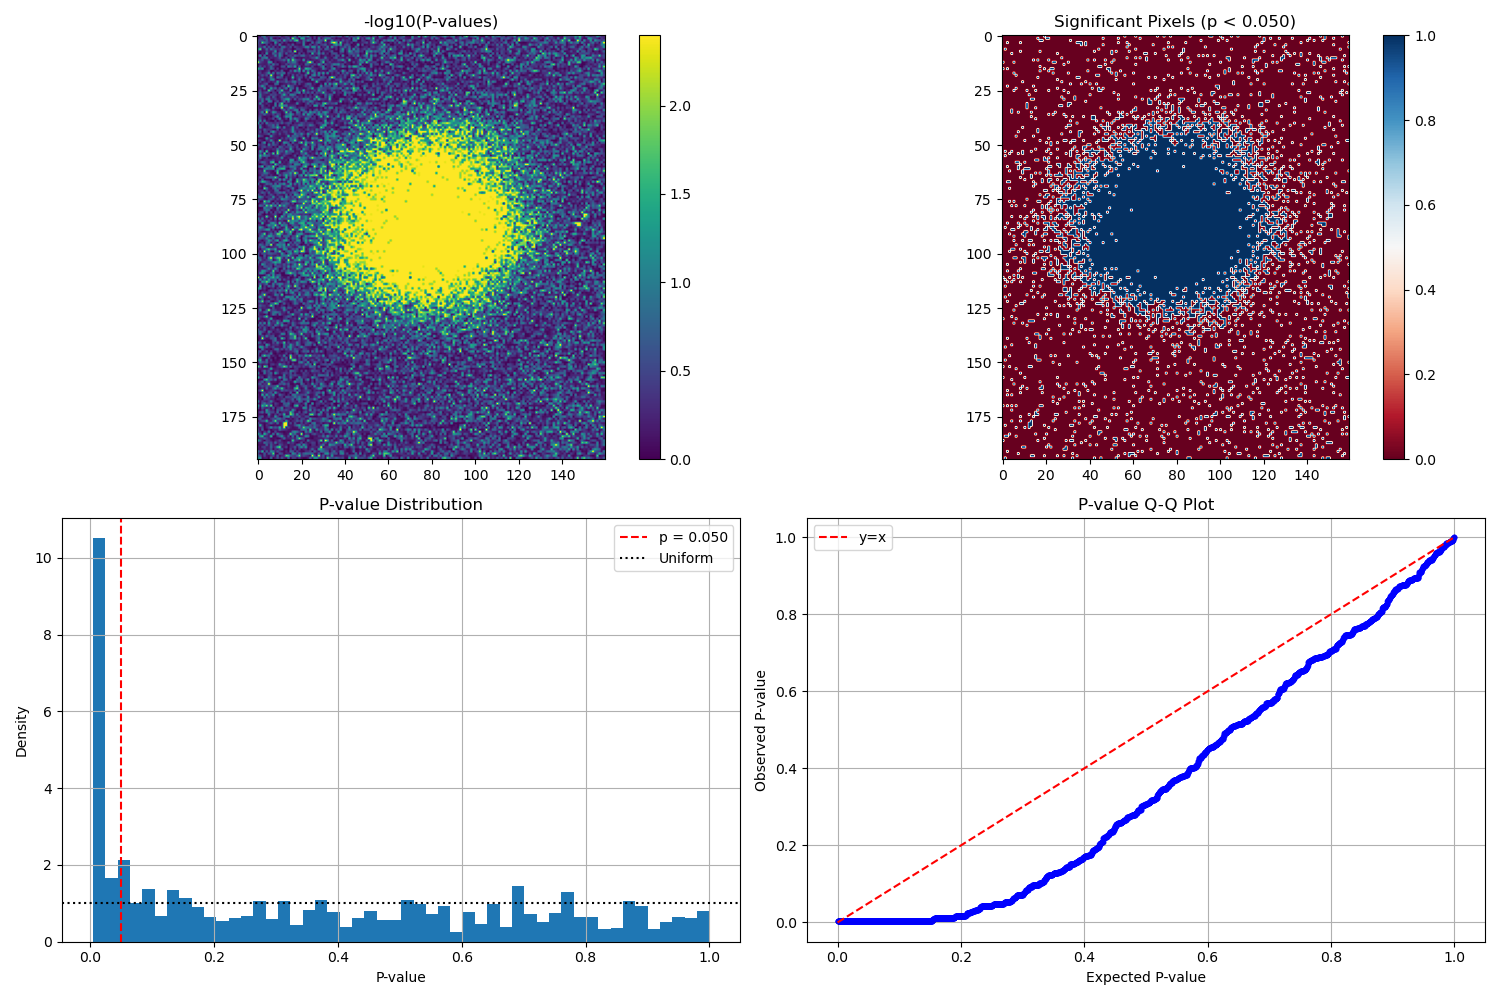
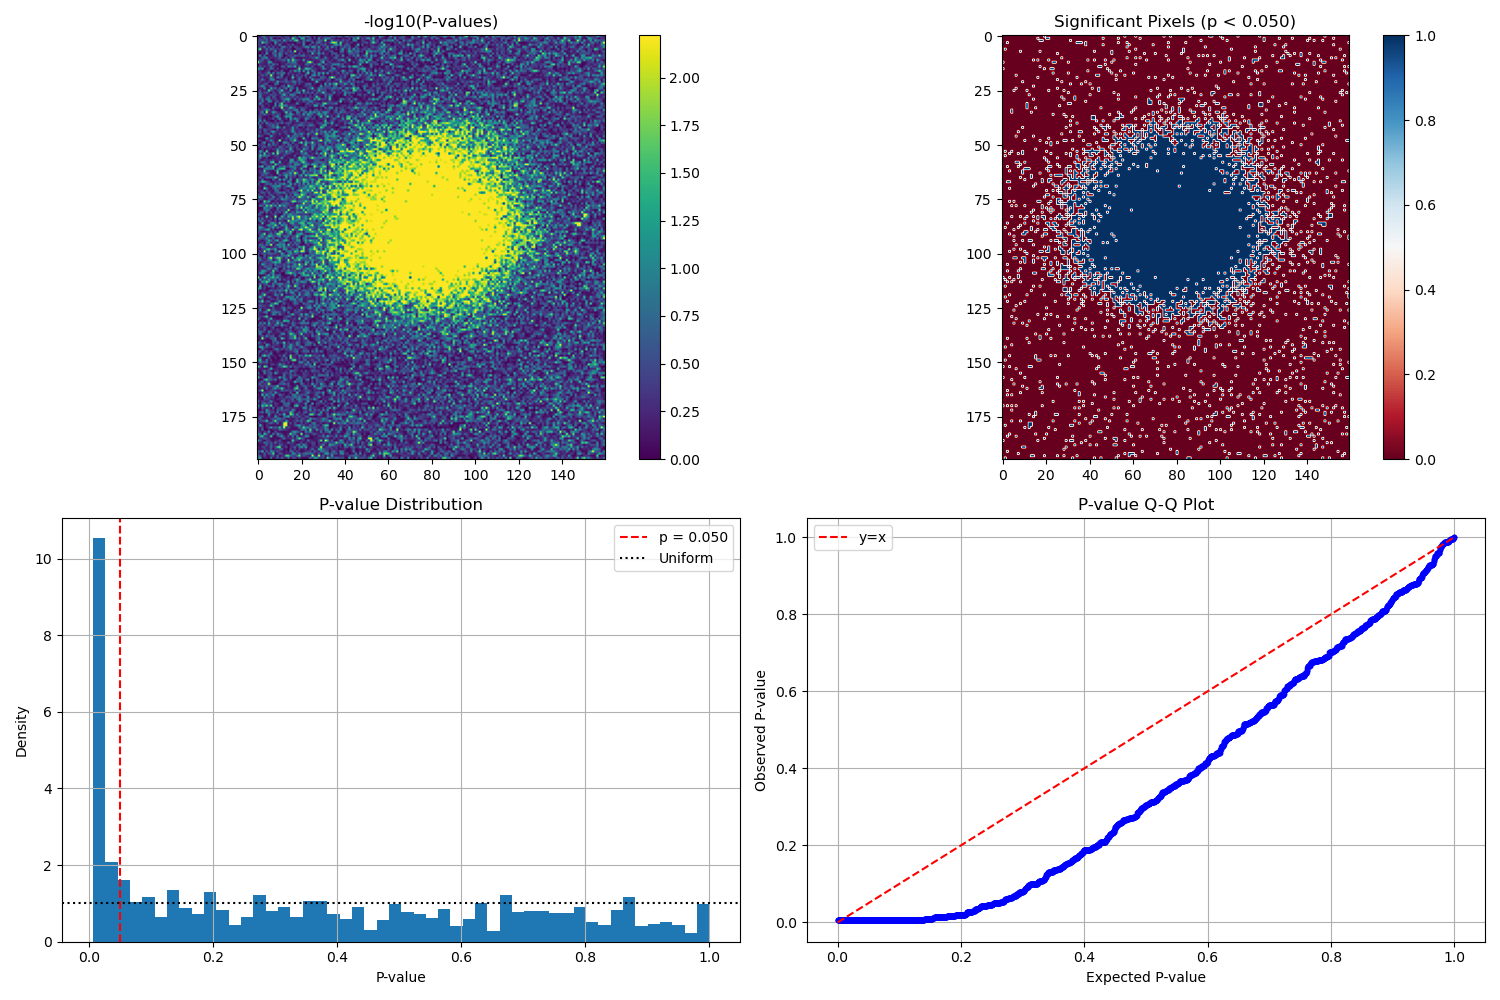
Use correct energy filter in pump probe calculation
- should be the global (i.e. range)- filtered values, not the
  harmonic-filtered ones that are used in the mask calculation

diff --git a/btx/processing/tasks/load_data.py b/btx/processing/tasks/load_data.py
@@ -83,7 +83,8 @@ class LoadData:
         # Apply both filters
         data_cleaned = data.copy()
         data_cleaned[~harmonic_mask] = 0
-        data[~(harmonic_mask & global_mask)] = 0
+        #data[~(harmonic_mask & global_mask)] = 0
+        data[~(global_mask)] = 0
         
         return data_cleaned, data
 
@@ -169,7 +170,7 @@ class LoadData:
             )
             
         # Apply energy thresholding
-        data, data_dual_energy_filter = self._apply_energy_threshold(data)
+        data, data_global_energy_filter = self._apply_energy_threshold(data)
     
         # Calculate binned delays
         binned_delays = self._calculate_binned_delays(laser_delays)
@@ -181,7 +182,7 @@ class LoadData:
             laser_on_mask=laser_on_mask,
             laser_off_mask=laser_off_mask,
             binned_delays=binned_delays,
-            data_dual_energy_filter=data_dual_energy_filter
+            data_global_energy_filter=data_global_energy_filter
         )
 
     def plot_diagnostics(self, output: LoadDataOutput, save_dir: Path) -> None:

diff --git a/btx/processing/tasks/pump_probe.py b/btx/processing/tasks/pump_probe.py
@@ -140,12 +140,13 @@ class PumpProbeAnalysis:
             
             if n_on >= min_count and n_off >= min_count:
                 logger.debug(f"Delay {delay:.3f}ps: {n_on} on, {n_off} off frames")
+                # TODO default to the other stack of frames if this one is None
                 stacks_on[delay] = DelayData(
-                    frames=input_data.load_data_output.data[on_mask],
+                    frames=input_data.load_data_output.data_global_energy_filter[on_mask],
                     I0=input_data.load_data_output.I0[on_mask]
                 )
                 stacks_off[delay] = DelayData(
-                    frames=input_data.load_data_output.data[off_mask],
+                    frames=input_data.load_data_output.data_global_energy_filter[off_mask],
                     I0=input_data.load_data_output.I0[off_mask]
                 )
             else:

diff --git a/btx/processing/btx_types.py b/btx/processing/btx_types.py
@@ -21,7 +21,7 @@ class LoadDataOutput:
     laser_on_mask: np.ndarray  # (frames,)
     laser_off_mask: np.ndarray  # (frames,)
     binned_delays: np.ndarray  # (frames,)
-    data_dual_energy_filter: Optional[np.ndarray] = None  # Optional (frames,) boolean array
+    data_global_energy_filter: Optional[np.ndarray] = None  # Optional (frames,) boolean array
 
 @dataclass
 class MakeHistogramInput:
